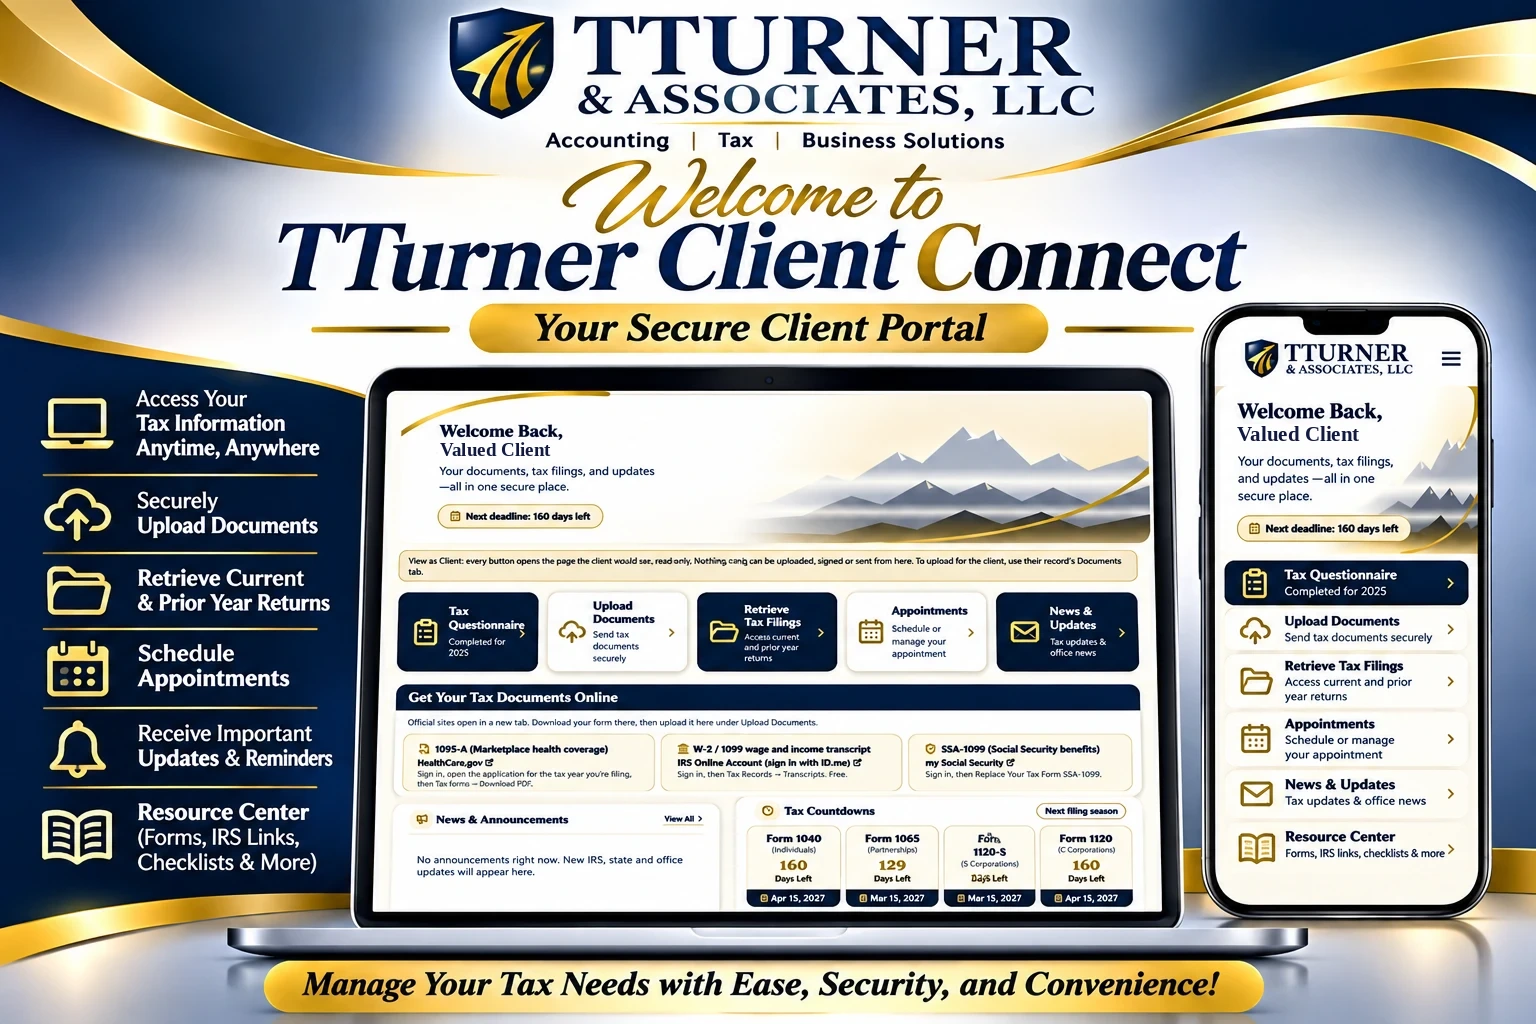
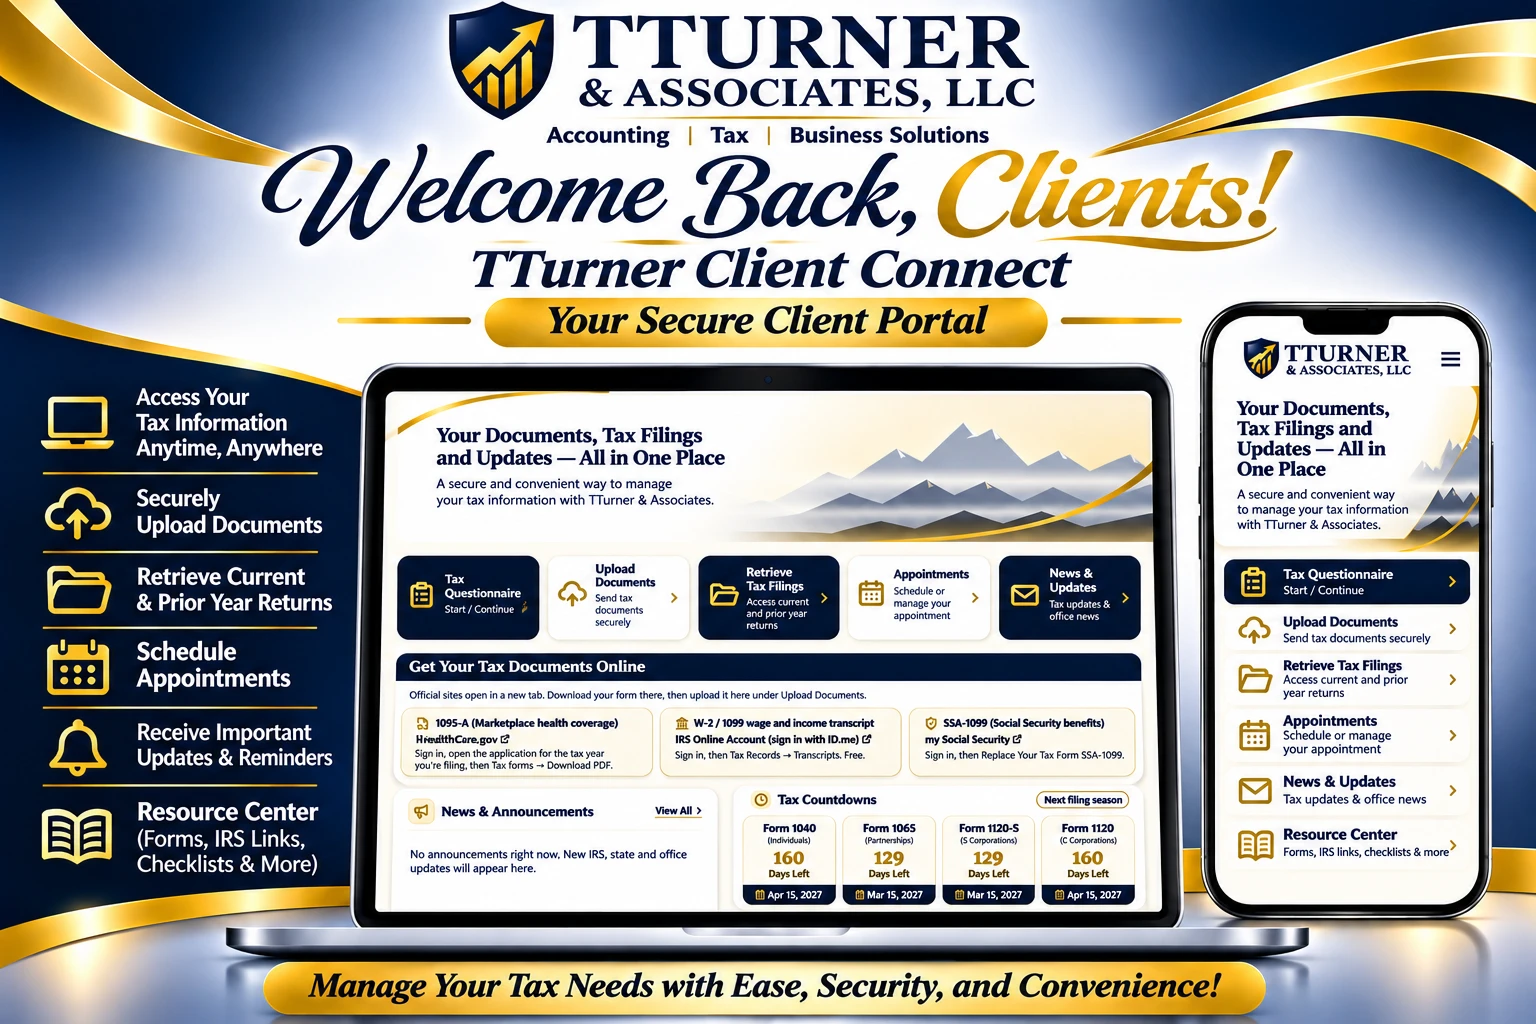
Use Tabitha's "Welcome Back, Clients!" welcome flyer
Replaces the edited flyer image with the owner's own version (no client
names). Same key and file path; label and alt text updated.

Claude-Session: https://claude.ai/code/session_01PcrZVDE3dtH8yXi9eSsfa3

diff --git a/src/lib/news/flyers.ts b/src/lib/news/flyers.ts
@@ -7,9 +7,9 @@
  */
 export const FLYERS = {
   "welcome-client-connect": {
-    label: "Welcome to TTurner Client Connect",
+    label: "Welcome Back, Clients! (TTurner Client Connect)",
     src: "/brand/flyers/welcome-client-connect.webp",
-    alt: "Welcome to TTurner Client Connect, your secure client portal: access your tax information anytime, upload documents securely, retrieve current and prior year returns, schedule appointments, receive updates and reminders, and use the Resource Center.",
+    alt: "Welcome Back, Clients! TTurner Client Connect, your secure client portal: access your tax information anytime, upload documents securely, retrieve current and prior year returns, schedule appointments, receive updates and reminders, and use the Resource Center.",
   },
 } as const;
 
